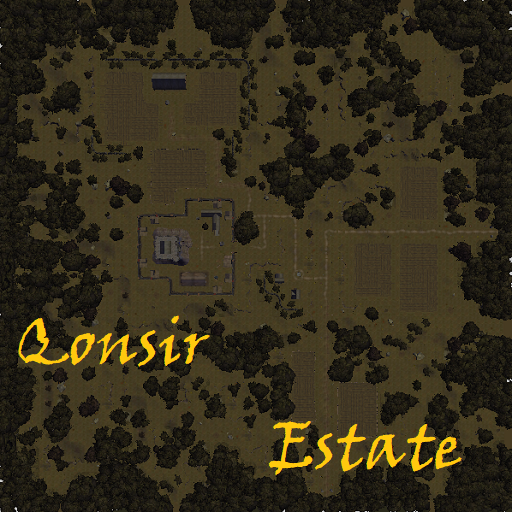
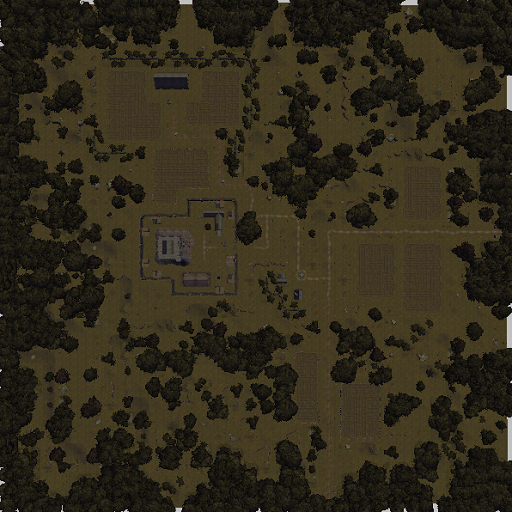
210430
Added Survale Ford basics
Refurbished Ilmatari Church

diff --git a/common.js b/common.js
@@ -7,46 +7,46 @@ var Loader = {
 };
 
 var map = {
-    cols: 26,
+    cols: 29,
     rows: 15,
     tsize: 512,
     csize: 256,
     csize_noscr: 100,
     layers: [[
-        //1              2                3              4              5              6                  7                 8                  9                  10                 11                 12                 13                 14                 15                 16                 17                 18                 19                 20                21                22                     23                 24             25             26                           
-        '0map',          '0map',          '0map',        '0map',        '0map',        '0map',            '0map',           '0map',            '0map',            '0map',            '0map',            '0map',            '0map',            '0map',            '0map',            '0map',            '0map',            '0map',            '0map',            '0map',           '0map',           '0map',                '0map',            '0map',        '0map',        '0map',        
-        '0map',          '0map',          '0map',        '0map',        '0map',        '0map',            '0map',           '0map',            '0map',            '0map',            '0map',            '0map',            '0map',            '0map',            '0map',            '0map',            '0map',            '0map',            '0map',            '0map',           '0map',           '0map',                'TorArcanaFw',     'TorArcana',   'TorArcanaFe', '0map',     
-        't_zazesspur_nw','t_zazesspur_ne','0map',        '0map',        '0map',        '0map',            '0map',           '0map',            '0map',            '0map',            '0map',            '0map',            '0map',            '0map',            '0map',            '0map',            '0map',            '0map',            '0map',            '0map',           '0map',           '0map',                'TorArcanaFsw',    'TorArcanaFs', 'TorArcanaFse','0map',   
-        't_zazesspur_sw','t_zazesspur_se','t_venazir_ne','SulZaz2',     '0map',        '0map',            't_tethyrcast_nw','t_tethyrcast_n',  't_tethyrcast_ne', 'SuldusBard1',     '0map',            'IthmonSulW',      't_hostim_quay',   'IthmonSulE',      'IthmonSulE1',     'IthmonSulE2',     't_grannox',       't_grannox_farms', 't_lhestynheart',  't_freelm_farms', 't_freelmanse',   '0map',                'VarythPlainW',    'VarythPlainC','0map',        '0map',
-        't_venazir_sw',  't_venazir_s',   't_venazir_se','SulZaz3',     'SulZaz4',     'SulZaz5',         't_tethyrcast_w', 't_tethyrcast',    't_tethyrcast_e',  'SuldusBard2',     'SuldusBard3',     'SuldusBard4',     't_hostim',        '0map',            '0map',            '0map',            't_lhest_gorge',   't_lhest_farm_sw', 't_lhest_farm_s',  't_lhest_farm_se','t_rivshrehill_n','t_rivshrehill_ne',    't_varyth_hill_nw','0map',        '0map',        '0map', 
-        '0map',          '0map',          'OldKingRoad1','OldKingRoad2','OldKingRoad3','OldKingRoad4',    't_tethyrcast_sw','t_tethyrcast_s',  't_tethyrcast_se', '0map',            '0map',            '0map',            't_hostim_road',   '0map',            '0map',            '0map',            't_qonsir',        't_qonsir_farm',   't_lhest_road',    't_rivshrehill_w','t_rivshrehill_c','t_st_ostus',          't_varyth_hill_sw','0map',        '0map',        '0map', 
-        '0map',          '0map',          '0map',        '0map',        '0map',        't_sahark_crossrd','t_saharkhan',    't_bardshy_itr_1', 't_bardshyr_lorik','t_bardshy_itr_3', 't_bardshy_itr_4', 't_ithmon_ithr_w1','t_ithmon_ithr_w2','t_ithmon_lorcros','t_ithmon_ithr_e1','t_ithmon_ithr_e2','t_rvrshr_ithrdw', 't_crownfarms_nw', 't_crownfarms_n',  't_crownfarms_ne','t_rivshrehill_s','t_rivshrehill_se',    '0map',            '0map',        '0map',        '0map', 
-        '0map',          '0map',          '0map',        '0map',        '0map',        'SoldiersRoad1',   '0map',           '0map',            '0map',            '0map',            '0map',            '0map',            't_ithmon_farm_nw','t_ithmon_farm_n', 't_ithmon_farm_ne','t_loransewood_n', 't_crownfarms_iw2','t_crownfarms_iw1','t_darromar',      '0map',           '0map',           '0map',                '0map',            '0map',        '0map',        '0map', 
-        '0map',          '0map',          '0map',        '0map',        '0map',        'SoldiersRoad2',   '0map',           '0map',            '0map',            '0map',            '0map',            '0map',            't_ithmon_farm_w', 't_ithmon_loranse','t_ithmon_farm_e', 't_loransewood_s', 't_ruba',          't_clov_fld_nw',   't_clov_fld_itr_n','0map',           '0map',           '0map',                '0map',            '0map',        '0map',        '0map', 
-        '0map',          '0map',          '0map',        '0map',        '0map',        'SoldiersRoad3',   '0map',           '0map',            '0map',            '0map',            '0map',            '0map',            '0map',            '0map',            '0map',            '0map',            '0map',            '0map',            't_clov_fld_itr_s','0map',           '0map',           '0map',                '0map',            '0map',        '0map',        '0map',
-        '0map',          '0map',          '0map',        '0map',        '0map',        't_krennasar',     '0map',           '0map',            '0map',            '0map',            '0map',            '0map',            '0map',            '0map',            '0map',            '0map',            '0map',            '0map',            '0map',            '0map',           '0map',           '0map',                '0map',            '0map',        '0map',        '0map',
-        '0map',          '0map',          '0map',        '0map',        '0map',        '0map',            '0map',           '0map',            '0map',            '0map',            '0map',            '0map',            '0map',            '0map',            '0map',            '0map',            '0map',            '0map',            '0map',            '0map',           '0map',           '0map',                '0map',            '0map',        '0map',        '0map',
-        '0map',          '0map',          '0map',        '0map',        '0map',        '0map',            '0map',           '0map',            '0map',            '0map',            '0map',            '0map',            '0map',            '0map',            '0map',            '0map',            '0map',            '0map',            '0map',            '0map',           '0map',           '0map',                '0map',            '0map',        '0map',        '0map',                        
-        '0map',          '0map',          't_myratma_w', 't_myratma_e', '0map',        '0map',            '0map',           '0map',            '0map',            '0map',            '0map',            '0map',            '0map',            '0map',            '0map',            '0map',            '0map',            '0map',            '0map',            '0map',           '0map',           '0map',                '0map',            '0map',        '0map',        '0map',
-        '0map',          '0map',          '0map',        '0map',        '0map',        '0map',            '0map',           '0map',            '0map',            '0map',            '0map',            '0map',            '0map',            '0map',            '0map',            '0map',            '0map',            '0map',            '0map',            '0map',           '0map',           '0map',                '0map',            '0map',        '0map',        '0map'                                                        
+        //1              2                3              4              5              6                  7                 8                  9                  10                 11                 12                 13                 14                 15                 16                 17                 18                 19                 20                21                22                     23                 24             25             26     27          28           29            
+        '0map',          '0map',          '0map',        '0map',        '0map',        '0map',            '0map',           '0map',            '0map',            '0map',            '0map',            '0map',            '0map',            '0map',            '0map',            '0map',            '0map',            '0map',            '0map',            '0map',           '0map',           '0map',                '0map',            '0map',        '0map',        '0map','0map',     '0map',      '0map',
+        '0map',          '0map',          '0map',        '0map',        '0map',        '0map',            '0map',           '0map',            '0map',            '0map',            '0map',            '0map',            '0map',            '0map',            '0map',            '0map',            '0map',            '0map',            '0map',            '0map',           '0map',           '0map',                'TorArcanaFw',     'TorArcana',   'TorArcanaFe', '0map','0map',     '0map',      '0map',
+        't_zazesspur_nw','t_zazesspur_ne','0map',        '0map',        '0map',        '0map',            '0map',           '0map',            '0map',            '0map',            '0map',            '0map',            '0map',            '0map',            '0map',            '0map',            '0map',            '0map',            '0map',            '0map',           '0map',           '0map',                'TorArcanaFsw',    'TorArcanaFs', 'TorArcanaFse','0map','0map',     '0map',      '0map',
+        't_zazesspur_sw','t_zazesspur_se','t_venazir_ne','SulZaz2',     '0map',        '0map',            't_tethyrcast_nw','t_tethyrcast_n',  't_tethyrcast_ne', 'SuldusBard1',     '0map',            'IthmonSulW',      't_hostim_quay',   'IthmonSulE',      'IthmonSulE1',     'IthmonSulE2',     't_grannox',       't_grannox_farms', 't_lhestynheart',  't_freelm_farms', 't_freelmanse',   '0map',                'VarythPlainW',    'VarythPlainC','0map',        '0map','0map',     '0map',      '0map',
+        't_venazir_sw',  't_venazir_s',   't_venazir_se','SulZaz3',     'SulZaz4',     'SulZaz5',         't_tethyrcast_w', 't_tethyrcast',    't_tethyrcast_e',  'SuldusBard2',     'SuldusBard3',     'SuldusBard4',     't_hostim',        '0map',            '0map',            '0map',            't_lhest_gorge',   't_lhest_farm_sw', 't_lhest_farm_s',  't_lhest_farm_se','t_rivshrehill_n','t_rivshrehill_ne',    't_varyth_hill_nw','0map',        '0map',        '0map','0map',     't_survale', '0map',
+        '0map',          '0map',          'OldKingRoad1','OldKingRoad2','OldKingRoad3','OldKingRoad4',    't_tethyrcast_sw','t_tethyrcast_s',  't_tethyrcast_se', '0map',            '0map',            '0map',            't_hostim_road',   '0map',            '0map',            '0map',            't_qonsir',        't_qonsir_farm',   't_lhest_road',    't_rivshrehill_w','t_rivshrehill_c','t_st_ostus',          't_varyth_hill_sw','0map',        '0map',        '0map','0map',     '0map',      '0map',
+        '0map',          '0map',          '0map',        '0map',        '0map',        't_sahark_crossrd','t_saharkhan',    't_bardshy_itr_1', 't_bardshyr_lorik','t_bardshy_itr_3', 't_bardshy_itr_4', 't_ithmon_ithr_w1','t_ithmon_ithr_w2','t_ithmon_lorcros','t_ithmon_ithr_e1','t_ithmon_ithr_e2','t_rvrshr_ithrdw', 't_crownfarms_nw', 't_crownfarms_n',  't_crownfarms_ne','t_rivshrehill_s','t_rivshrehill_se',    '0map',            '0map',        '0map',        '0map','0map',     '0map',      '0map',
+        '0map',          '0map',          '0map',        '0map',        '0map',        'SoldiersRoad1',   '0map',           '0map',            '0map',            '0map',            '0map',            '0map',            't_ithmon_farm_nw','t_ithmon_farm_n', 't_ithmon_farm_ne','t_loransewood_n', 't_crownfarms_iw2','t_crownfarms_iw1','t_darromar',      '0map',           '0map',           '0map',                '0map',            '0map',        '0map',        '0map','0map',     '0map',      '0map',
+        '0map',          '0map',          '0map',        '0map',        '0map',        'SoldiersRoad2',   '0map',           '0map',            '0map',            '0map',            '0map',            '0map',            't_ithmon_farm_w', 't_ithmon_loranse','t_ithmon_farm_e', 't_loransewood_s', 't_ruba',          't_clov_fld_nw',   't_clov_fld_itr_n','0map',           '0map',           '0map',                '0map',            '0map',        '0map',        '0map','0map',     '0map',      '0map',
+        '0map',          '0map',          '0map',        '0map',        '0map',        'SoldiersRoad3',   '0map',           '0map',            '0map',            '0map',            '0map',            '0map',            '0map',            '0map',            '0map',            '0map',            '0map',            '0map',            't_clov_fld_itr_s','0map',           '0map',           '0map',                '0map',            '0map',        '0map',        '0map','0map',     '0map',      '0map',
+        '0map',          '0map',          '0map',        '0map',        '0map',        't_krennasar',     '0map',           '0map',            '0map',            '0map',            '0map',            '0map',            '0map',            '0map',            '0map',            '0map',            '0map',            '0map',            '0map',            '0map',           '0map',           '0map',                '0map',            '0map',        '0map',        '0map','0map',     '0map',      '0map',
+        '0map',          '0map',          '0map',        '0map',        '0map',        '0map',            '0map',           '0map',            '0map',            '0map',            '0map',            '0map',            '0map',            '0map',            '0map',            '0map',            '0map',            '0map',            '0map',            '0map',           '0map',           '0map',                '0map',            '0map',        '0map',        '0map','0map',     '0map',      '0map',
+        '0map',          '0map',          '0map',        '0map',        '0map',        '0map',            '0map',           '0map',            '0map',            '0map',            '0map',            '0map',            '0map',            '0map',            '0map',            '0map',            '0map',            '0map',            '0map',            '0map',           '0map',           '0map',                '0map',            '0map',        '0map',        '0map','0map',     '0map',      '0map',   
+        '0map',          '0map',          't_myratma_w', 't_myratma_e', '0map',        '0map',            '0map',           '0map',            '0map',            '0map',            '0map',            '0map',            '0map',            '0map',            '0map',            '0map',            '0map',            '0map',            '0map',            '0map',           '0map',           '0map',                '0map',            '0map',        '0map',        '0map','0map',     '0map',      '0map',
+        '0map',          '0map',          '0map',        '0map',        '0map',        '0map',            '0map',           '0map',            '0map',            '0map',            '0map',            '0map',            '0map',            '0map',            '0map',            '0map',            '0map',            '0map',            '0map',            '0map',           '0map',           '0map',                '0map',            '0map',        '0map',        '0map','0map',     '0map',      '0map'
     ], [
       //                  10                  20  
-      //1 2 3 4 5 6 7 8 9   1 2 3 4 5 6 7 8 9   1 2 3 4 5 6
-        0,0,0,0,0,0,0,0,0,0,0,0,0,0,0,0,0,0,0,0,0,0,0,0,0,0,      
-        0,0,0,0,0,0,0,0,0,0,0,0,0,0,0,0,0,0,0,0,0,0,0,0,0,0,
-        0,0,0,0,0,0,0,0,0,0,0,0,0,0,0,0,0,0,0,0,0,0,0,0,0,0,
-        0,0,0,0,0,0,0,0,0,0,0,0,0,0,0,0,0,0,0,0,0,0,0,0,0,0,
-        0,0,0,0,0,0,0,0,0,0,0,0,0,0,0,0,0,0,0,0,0,0,0,0,0,0,
-        0,0,0,0,0,0,0,0,0,0,0,0,0,0,0,0,0,0,0,0,0,0,0,0,0,0,
-        0,0,0,0,0,0,0,0,0,0,0,0,0,0,0,0,0,0,0,0,0,0,0,0,0,0,
-        0,0,0,0,0,0,0,0,0,0,0,0,0,0,0,0,0,0,0,0,0,0,0,0,0,0,
-        0,0,0,0,0,0,0,0,0,0,0,0,0,0,0,0,0,0,0,0,0,0,0,0,0,0,
-        0,0,0,0,0,0,0,0,0,0,0,0,0,0,0,0,0,0,0,0,0,0,0,0,0,0,
-        0,0,0,0,0,0,0,0,0,0,0,0,0,0,0,0,0,0,0,0,0,0,0,0,0,0,
-        0,0,0,0,0,0,0,0,0,0,0,0,0,0,0,0,0,0,0,0,0,0,0,0,0,0,
-        0,0,0,0,0,0,0,0,0,0,0,0,0,0,0,0,0,0,0,0,0,0,0,0,0,0,
-        0,0,0,0,0,0,0,0,0,0,0,0,0,0,0,0,0,0,0,0,0,0,0,0,0,0,
-        0,0,0,0,0,0,0,0,0,0,0,0,0,0,0,0,0,0,0,0,0,0,0,0,0,0
+      //1 2 3 4 5 6 7 8 9   1 2 3 4 5 6 7 8 9   1 2 3 4 5 6 7 8 9
+        0,0,0,0,0,0,0,0,0,0,0,0,0,0,0,0,0,0,0,0,0,0,0,0,0,0,0,0,0,     
+        0,0,0,0,0,0,0,0,0,0,0,0,0,0,0,0,0,0,0,0,0,0,0,0,0,0,0,0,0,
+        0,0,0,0,0,0,0,0,0,0,0,0,0,0,0,0,0,0,0,0,0,0,0,0,0,0,0,0,0,
+        0,0,0,0,0,0,0,0,0,0,0,0,0,0,0,0,0,0,0,0,0,0,0,0,0,0,0,0,0,
+        0,0,0,0,0,0,0,0,0,0,0,0,0,0,0,0,0,0,0,0,0,0,0,0,0,0,0,0,0,
+        0,0,0,0,0,0,0,0,0,0,0,0,0,0,0,0,0,0,0,0,0,0,0,0,0,0,0,0,0,
+        0,0,0,0,0,0,0,0,0,0,0,0,0,0,0,0,0,0,0,0,0,0,0,0,0,0,0,0,0,
+        0,0,0,0,0,0,0,0,0,0,0,0,0,0,0,0,0,0,0,0,0,0,0,0,0,0,0,0,0,
+        0,0,0,0,0,0,0,0,0,0,0,0,0,0,0,0,0,0,0,0,0,0,0,0,0,0,0,0,0,
+        0,0,0,0,0,0,0,0,0,0,0,0,0,0,0,0,0,0,0,0,0,0,0,0,0,0,0,0,0,
+        0,0,0,0,0,0,0,0,0,0,0,0,0,0,0,0,0,0,0,0,0,0,0,0,0,0,0,0,0,
+        0,0,0,0,0,0,0,0,0,0,0,0,0,0,0,0,0,0,0,0,0,0,0,0,0,0,0,0,0,
+        0,0,0,0,0,0,0,0,0,0,0,0,0,0,0,0,0,0,0,0,0,0,0,0,0,0,0,0,0,
+        0,0,0,0,0,0,0,0,0,0,0,0,0,0,0,0,0,0,0,0,0,0,0,0,0,0,0,0,0,
+        0,0,0,0,0,0,0,0,0,0,0,0,0,0,0,0,0,0,0,0,0,0,0,0,0,0,0,0,0
     ]],
     getTile: function (layer, col, row) {
         return this.layers[layer][row * map.cols + col];

diff --git a/maps/no-scroll.html b/maps/no-scroll.html
@@ -30,7 +30,7 @@
 
 <div class="main-wrapper">
     <div id='d1' style="position:relative; top:0%; left:auto; z-index:1"> 
-        <canvas id="demo" width="2600" height="1500"></canvas>
+        <canvas id="demo" width="2900" height="1500"></canvas>
     </div>
 <!--
     <footer class="main-footer">
